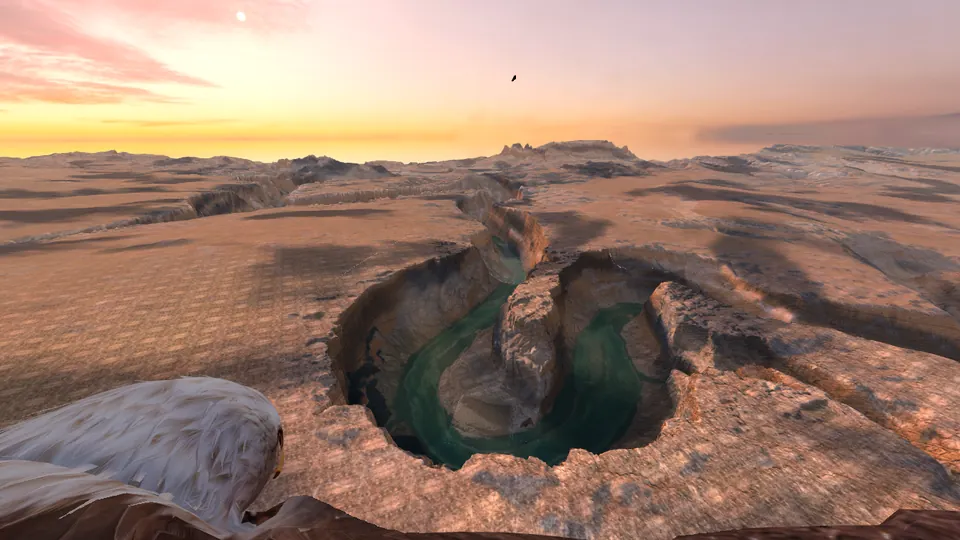
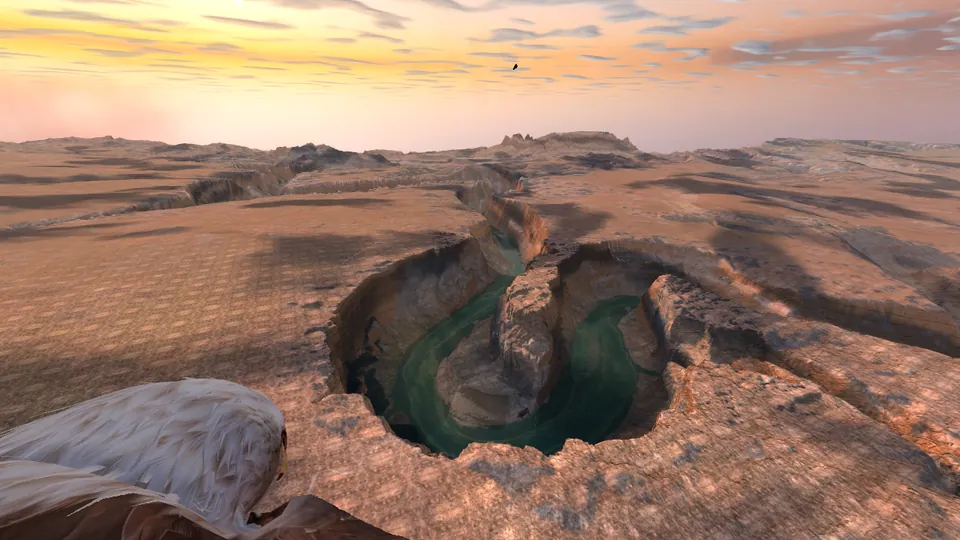
Restore the original Horseshoe Overlook sky and framing

diff --git a/game/index.html b/game/index.html
@@ -1,5 +1,5 @@
 <!doctype html>
-<html lang="en"><head><meta charset="utf-8"><meta name="viewport" content="width=device-width,initial-scale=1,viewport-fit=cover"><meta name="theme-color" content="#172323"><title>Aerie · Free Flight</title><meta name="application-version" content="0.32.1"><link rel="icon" type="image/png" sizes="64x64" href="aerie-icon-64.png"><link rel="stylesheet" href="style.css?v=0.32.1"></head>
+<html lang="en"><head><meta charset="utf-8"><meta name="viewport" content="width=device-width,initial-scale=1,viewport-fit=cover"><meta name="theme-color" content="#172323"><title>Aerie · Free Flight</title><meta name="application-version" content="0.32.2"><link rel="icon" type="image/png" sizes="64x64" href="aerie-icon-64.png"><link rel="stylesheet" href="style.css?v=0.32.2"></head>
 <body><main id="app" data-mode="title">
 <div id="landscape" aria-hidden="true"></div><div id="viewport"></div><span id="steerCue" hidden aria-hidden="true"></span><div class="shade"></div>
 <header><div class="brand"><img src="field-engraving.webp" width="768" height="512" alt="Aerie"></div><nav><button id="sound" class="icon" aria-label="Turn sound on" title="Turn sound on"></button><button class="icon flightOnly" id="visionToggle" aria-label="Toggle Game Vision (V)" aria-pressed="false" title="Game Vision (V)"><svg viewBox="0 0 24 24" aria-hidden="true"><path d="M2 12s3.6-6.5 10-6.5S22 12 22 12s-3.6 6.5-10 6.5S2 12 2 12Z"/><circle cx="12" cy="12" r="2.7"/></svg></button><button class="icon flightOnly" id="places" aria-label="Explore landmarks (G)" title="Explore landmarks (G)"><svg viewBox="0 0 24 24"><circle cx="12" cy="12" r="8.5"/><path d="m16 8-2.6 5.4L8 16l2.6-5.4z"/></svg></button><button class="icon flightOnly" id="cameraView" aria-label="Switch to chase camera" title="Switch to chase camera (C)"><svg viewBox="0 0 24 24"><path d="M3 8h4l2-3h6l2 3h4v12H3z"/><circle cx="12" cy="13" r="3"/></svg></button><button id="expand" class="icon" aria-label="Toggle fullscreen" title="Toggle fullscreen"><svg viewBox="0 0 24 24"><path d="M9 4H4v5m11-5h5v5M4 15v5h5m11-5v5h-5"/></svg></button><button id="pause" class="icon flightOnly" title="Pause" aria-label="Pause flight">Ⅱ</button></nav></header>
@@ -9,10 +9,10 @@
 <div class="hud"><div id="bearing"></div><div class="instrumentBlock"><div id="flightMode">Gliding</div><div class="instruments"><div><small>ALTITUDE</small><strong id="alt">0</strong> ft</div><div><small>AIRSPEED</small><strong id="speed">0</strong> mph</div><div><small>VERTICAL SPEED</small><strong id="vario">0</strong> ft/s</div></div></div><div id="discovery" role="status"></div></div>
 <div id="gameVision" hidden><div class="gameReadout"><ul aria-label="Nearby wildlife"></ul></div><div class="gamePin" hidden aria-hidden="true"><i></i><span></span></div><div class="gamePin" hidden aria-hidden="true"><i></i><span></span></div><div class="gamePin" hidden aria-hidden="true"><i></i><span></span></div></div>
 <div class="perchControls" aria-label="Flight and perching controls"><span id="perchStatus" role="status"></span><div><button id="airBrake" title="Hold to spread wings and brake (B)">Brake</button><button id="choosePerch" title="Choose a nearby perch (P)">Choose perch</button><button id="perchAction" hidden></button></div></div><div id="perchPin" hidden aria-hidden="true"><i></i><span></span></div>
-<button id="flap" class="touchFlap">Flap</button><div class="modal" hidden><section role="dialog" aria-modal="true" aria-labelledby="dialogTitle"><div class="eyebrow"><i></i> AERIE</div><h2 id="dialogTitle">Flight controls</h2><div id="instructions"><p class="mouseGuide">Move the mouse toward the part of the view you want to fly toward. Bring it back to the center ring to glide straight. Left-click to call; right-click a branch or ledge to land.</p><p class="fingerGuide">Touch the eagle or the scenery and slide one finger. Lift your finger to glide straight. Tap with two fingers to call without changing direction.</p><dl><dt>Bank</dt><dd>Left or right</dd><dt>Climb or dive</dt><dd>Up or down</dd><dt>Flap into a climb</dt><dd>Steer farther up</dd><dt>Spread wings to slow</dt><dd>Hold Brake or B</dd></dl><p>Tap a branch or ledge or use Choose perch, then choose <strong>Land</strong>. Drag to look around while perched. Choose <strong>Push off</strong> to fly again.</p><p>Tap the eye icon or press <strong>V</strong> to show or hide nearby wildlife. The compass bearings point toward live animals.</p><p>Dark ripples travel with a gust. A bird circling on open wings marks rising air.</p><div class="references"><a id="creditsLink" href="credits.txt" target="_blank" rel="noopener">Aerie 0.32.1 · scenery and recording credits ↗</a><a id="wildlifeCredits" href="wildlife-credits.txt" target="_blank" rel="noopener">Wildlife field sources ↗</a><a id="opticCredits" href="atmospheric-optics-credits.txt" target="_blank" rel="noopener">Regional sky effects ↗</a><a href="regional-recording-credits.txt" target="_blank" rel="noopener">Regional sound recording credits ↗</a><a href="perch-audio-credits.txt" target="_blank" rel="noopener">Perch sound recording credits ↗</a><strong>Eagle-mounted footage</strong><a href="https://www.youtube.com/watch?v=ENEi-LJMU8k" target="_blank" rel="noopener">Chamonix · Freedom Conservation ↗</a><a href="https://www.youtube.com/watch?v=mNtZBcEN6jg" target="_blank" rel="noopener">Mongolia · GoPro ↗</a><a href="https://www.youtube.com/watch?v=4uJnivXGy0k" target="_blank" rel="noopener">Dubai · BBC News ↗</a></div></div><div id="placeList" hidden></div><p id="summary"></p><button id="back" class="primary">Back</button><button id="end" class="secondary">Choose a world</button></section></div>
+<button id="flap" class="touchFlap">Flap</button><div class="modal" hidden><section role="dialog" aria-modal="true" aria-labelledby="dialogTitle"><div class="eyebrow"><i></i> AERIE</div><h2 id="dialogTitle">Flight controls</h2><div id="instructions"><p class="mouseGuide">Move the mouse toward the part of the view you want to fly toward. Bring it back to the center ring to glide straight. Left-click to call; right-click a branch or ledge to land.</p><p class="fingerGuide">Touch the eagle or the scenery and slide one finger. Lift your finger to glide straight. Tap with two fingers to call without changing direction.</p><dl><dt>Bank</dt><dd>Left or right</dd><dt>Climb or dive</dt><dd>Up or down</dd><dt>Flap into a climb</dt><dd>Steer farther up</dd><dt>Spread wings to slow</dt><dd>Hold Brake or B</dd></dl><p>Tap a branch or ledge or use Choose perch, then choose <strong>Land</strong>. Drag to look around while perched. Choose <strong>Push off</strong> to fly again.</p><p>Tap the eye icon or press <strong>V</strong> to show or hide nearby wildlife. The compass bearings point toward live animals.</p><p>Dark ripples travel with a gust. A bird circling on open wings marks rising air.</p><div class="references"><a id="creditsLink" href="credits.txt" target="_blank" rel="noopener">Aerie 0.32.2 · scenery and recording credits ↗</a><a id="wildlifeCredits" href="wildlife-credits.txt" target="_blank" rel="noopener">Wildlife field sources ↗</a><a id="opticCredits" href="atmospheric-optics-credits.txt" target="_blank" rel="noopener">Regional sky effects ↗</a><a href="regional-recording-credits.txt" target="_blank" rel="noopener">Regional sound recording credits ↗</a><a href="perch-audio-credits.txt" target="_blank" rel="noopener">Perch sound recording credits ↗</a><strong>Eagle-mounted footage</strong><a href="https://www.youtube.com/watch?v=ENEi-LJMU8k" target="_blank" rel="noopener">Chamonix · Freedom Conservation ↗</a><a href="https://www.youtube.com/watch?v=mNtZBcEN6jg" target="_blank" rel="noopener">Mongolia · GoPro ↗</a><a href="https://www.youtube.com/watch?v=4uJnivXGy0k" target="_blank" rel="noopener">Dubai · BBC News ↗</a></div></div><div id="placeList" hidden></div><p id="summary"></p><button id="back" class="primary">Back</button><button id="end" class="secondary">Choose a world</button></section></div>
 <dialog id="graphicsRecovery" aria-labelledby="graphicsRecoveryTitle">
   <h2 id="graphicsRecoveryTitle">Restoring graphics</h2>
   <p>Your flight is paused while the browser reconnects to the graphics processor.</p>
   <button id="reloadGraphics" class="primary" type="button">Reload game</button>
 </dialog>
-</main><script src="three.min.js"></script><script src="mobile-scenery.js"></script><script src="flight-pointer.js"></script><script src="range-loader.js?v=0.32.1"></script><script src="perch-routes.js"></script><script src="game-ranges.js"></script><script src="world-menu.js"></script><script src="game-units.js"></script><script src="game.js?v=0.32.1"></script></body></html>
+</main><script src="three.min.js"></script><script src="mobile-scenery.js"></script><script src="flight-pointer.js"></script><script src="range-loader.js?v=0.32.2"></script><script src="perch-routes.js"></script><script src="game-ranges.js"></script><script src="world-menu.js"></script><script src="game-units.js"></script><script src="game.js?v=0.32.2"></script></body></html>

diff --git a/game/canyon.js b/game/canyon.js
@@ -70,9 +70,7 @@ window.makeCanyon = function makeCanyon(THREE, scene) {
   const skyColor=`
     vec3 skyColor(vec3 d) {
       float u=(atan(d.z,d.x)-atan(sun.z,sun.x))*.159154943+.650;
-      // The photograph's horizon is at the equator. Keep its lower, mirrored
-      // fill below the horizon rather than projecting it onto the visible sky.
-      float v=asin(clamp(d.y,-1.,1.))*.318309886+.500;
+      float v=asin(clamp(d.y,-1.,1.))*.318309886+.457;
       vec3 c=texture2D(panorama,vec2(u,clamp(v,.015,.998))).rgb;
       float a=distance(d,sun);
       return c*vec3(1.06,.97,.94)+vec3(.20,.083,.029)*exp(-5.6*a)+vec3(.65,.5,.26)*(1.-smoothstep(.004,.009,a));
@@ -701,7 +699,7 @@ window.makeCanyon = function makeCanyon(THREE, scene) {
   }
   // The overlook stands on the eastern rim. Fly just above its rock lip,
   // looking down into both arms of the Colorado as they wrap the promontory.
-  const spawn={x:-74,z:98,y:elevation(-74,98)+18,yaw:1.26,lookDown:26};
+  const spawn={x:45,z:76,y:elevation(45,76)+72,yaw:1.38};
   const ridge={x:-425,z:-2450,y:elevation(-425,-2450)+90,yaw:1.54};
   const shore={x:-441,z:-76,y:elevation(-441,-76)+7.2,yaw:.24};
   let landformMesh=null;

diff --git a/game/moving-weather.js b/game/moving-weather.js
@@ -151,9 +151,6 @@ window.makeMovingWeather = async function makeMovingWeather(THREE, scene, world)
   scene.traverse(object => {
     if(!object.isMesh)return;
     const sky=object.renderOrder===-1000;
-    // Canyon's photographed sky supplies the visible cloud detail and the
-    // river reflection. The flat moving overlay hides that detail in flight.
-    if(sky && world.region==='canyon')return;
     for(const material of Array.isArray(object.material)?object.material:[object.material]){
       if(!material || seen.has(material) || material.isShadowMaterial)continue;
       // Air volumes, decals and additive foam inherit the underlying surface.

diff --git a/game/range-loader.js b/game/range-loader.js
@@ -15,7 +15,7 @@
         tag.onload=resolve;
         tag.onerror=()=>reject(new Error('Unable to open '+name));
         const url=window.aerieAssetURL?.(name)||name;
-        tag.src=url===name&&location.protocol!=='file:'?url+'?v=0.32.1':url;
+        tag.src=url===name&&location.protocol!=='file:'?url+'?v=0.32.2':url;
         document.head.appendChild(tag);
       });
       loaded.set(name,request.catch(error=>{loaded.delete(name);throw error;}));
